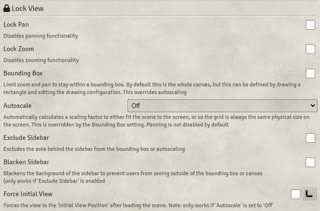
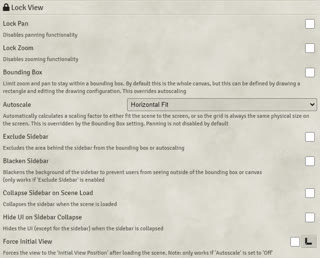
v1.4.4

diff --git a/src/sceneConfig.js b/src/sceneConfig.js
@@ -12,6 +12,8 @@ export function renderSceneConfig(app,html){
     let boundingBox = false;
     let excludeSidebar = false;
     let blackenSidebar = false;
+    let hideUI = false;
+    let collapseSidebar = false;
 
     if(app.object.data.flags["LockView"]){
         if (app.object.data.flags["LockView"].lockPanInit){
@@ -43,6 +45,14 @@ export function renderSceneConfig(app,html){
         if (app.object.data.flags["LockView"].blackenSidebar){
             blackenSidebar = app.object.getFlag('LockView', 'blackenSidebar');
         } else app.object.setFlag('LockView', 'blackenSidebar', false);
+
+        if (app.object.data.flags["LockView"].hideUI){
+            hideUI = app.object.getFlag('LockView', 'hideUI');
+        } else app.object.setFlag('LockView', 'hideUI', false);
+
+        if (app.object.data.flags["LockView"].collapseSidebar){
+            collapseSidebar = app.object.getFlag('LockView', 'collapseSidebar');
+        } else app.object.setFlag('LockView', 'collapseSidebar', false);
     } 
     
     let autoScaleOptions = [
@@ -104,6 +114,16 @@ export function renderSceneConfig(app,html){
         <p class="notes">${game.i18n.localize("LockView.Scene.blackenSidebar_Hint")}</p>
     </div>
     <div class="form-group">
+        <label>${game.i18n.localize("LockView.Scene.CollapseSidebar")}</label>
+        <input id="LockView_collapseSidebar" type="checkbox" name="LV_collapseSidebar" data-dtype="Boolean" ${collapseSidebar ? 'checked' : ''}>
+        <p class="notes">${game.i18n.localize("LockView.Scene.CollapseSidebar_Hint")}</p>
+    </div>
+    <div class="form-group">
+        <label>${game.i18n.localize("LockView.Scene.HideUI")}</label>
+        <input id="LockView_hideUI" type="checkbox" name="LV_hideUI" data-dtype="Boolean" ${hideUI ? 'checked' : ''}>
+        <p class="notes">${game.i18n.localize("LockView.Scene.HideUI_Hint")}</p>
+    </div>
+    <div class="form-group">
         <label>${game.i18n.localize("LockView.Scene.ForceInit")}</label>
         <div class="form-fields">
             <input id="LockView_forceInit" type="checkbox" name="LV_forceInit" data-dtype="Boolean" ${forceInit ? 'checked' : ''}>
@@ -112,8 +132,9 @@ export function renderSceneConfig(app,html){
         <p class="notes">${game.i18n.localize("LockView.Scene.ForceInit_Hint")}</p>
     </div>
     `
-    const submitBtn = html.find("button[name = 'submit']");
-    submitBtn.before(fxHtml);
+    
+    const initPositionClass = html.find('div[class="form-group initial-position"]')
+    initPositionClass.after(fxHtml);
 
     const setInitialViewButton = html.find("button[id = 'LockView_setInitialView']");
     setInitialViewButton.on("click",event => {
@@ -134,6 +155,8 @@ export async function closeSceneConfig(app,html){let lockPan = html.find("input[
     let boundingBox = html.find("input[name ='LV_boundingBox']").is(":checked");
     let excludeSidebar = html.find("input[name ='LV_excludeSidebar']").is(":checked");
     let blackenSidebar = html.find("input[name ='LV_blackenSidebar']").is(":checked");
+    let hideUI = html.find("input[name ='LV_hideUI']").is(":checked");
+    let collapseSidebar = html.find("input[name ='LV_collapseSidebar']").is(":checked");
     await app.object.setFlag('LockView', 'lockPan',lockPan);
     await app.object.setFlag('LockView', 'lockPanInit',lockPan);
     await app.object.setFlag('LockView', 'lockZoom',lockZoom);
@@ -144,6 +167,8 @@ export async function closeSceneConfig(app,html){let lockPan = html.find("input[
     await app.object.setFlag('LockView', 'boundingBoxInit', boundingBox);
     await app.object.setFlag('LockView', 'excludeSidebar', excludeSidebar);
     await app.object.setFlag('LockView', 'blackenSidebar', blackenSidebar);
+    await app.object.setFlag('LockView', 'hideUI', hideUI);
+    await app.object.setFlag('LockView', 'collapseSidebar', collapseSidebar);
 
     if (app.entity.data._id == canvas.scene.data._id){
 

diff --git a/lockview.js b/lockview.js
@@ -16,7 +16,8 @@ let windowHeightOld = -1;
 //CONFIG.debug.hooks = true;
 
 Hooks.on('ready', ()=>{ SOCKET.socket(); MISC.updatePopup() });
-Hooks.on('renderSidebarTab',()=>{ onCanvasReady() });
+Hooks.on('canvasReady',()=>{ onCanvasReady() });
+Hooks.on('renderSidebarTab',()=>{ onRenderSidebarTab() });
 Hooks.on("renderSceneConfig", (app, html) => { SCENECONFIG.renderSceneConfig(app,html) });
 Hooks.on("closeSceneConfig", (app, html) => { SCENECONFIG.closeSceneConfig(app,html) });
 Hooks.on("getSceneControlButtons", (controls) => { CBUTTONS.pushControlButtons(controls) });
@@ -27,6 +28,7 @@ Hooks.on("updateDrawing",()=>{ forceConstrain() });
 Hooks.on("sidebarCollapse", () => { BLOCKS.getFlags(); applySettings(BLOCKS.lockPan && BLOCKS.lockZoom); forceConstrain() });
 Hooks.on("closeinitialViewForm", () => { SCENECONFIG.closeInitialViewForm() })
 Hooks.on("setLockView", (data) => { MISC.setLockView(data) })
+Hooks.on("sidebarCollapse", (app,collapse) => { setUI(collapse) });
 
 Hooks.on('canvasPan',(canvas,data)=>{
   if (MISC.getEnable(game.userId)) 
@@ -61,12 +63,32 @@ Hooks.on("renderPlayerList", (playerlist,init,users) => {
   VIEWBOX.getViewboxData();
 });
 
+function setUI(hide) {
+  if (hide && MISC.getEnable(game.userId) && canvas.scene.getFlag('LockView', 'hideUI')) {
+    $('#logo').hide();
+    $('#navigation').hide();
+    $('#controls').hide();
+    $('#players').hide();
+    $('#hotbar').hide();
+  }
+  else {
+    $('#logo').show();
+    $('#navigation').show();
+    $('#controls').show();
+    $('#players').show();
+    $('#hotbar').show();
+  }
+}
+
 /*
  * If the scene controls are rendered, check whether editViewbox should be enabled
  */
 async function onRenderSceneControls(controls){
   //If no canvas is defined, or the user is not a GM, return
   if (canvas == null || game.user.isGM == false) return;
+  
+  if (MISC.getEnable(game.userId) && canvas.scene.getFlag('LockView', 'collapseSidebar')) 
+    ui.sidebar.collapse();
 
   //Get all flags
   await BLOCKS.getFlags();
@@ -162,6 +184,16 @@ async function initializeFlags(){
  * Run when canvas is ready
  */
 async function onCanvasReady(){
+  await BLOCKS.getFlags();
+
+  //Apply the settings
+  await applySettings(true);
+
+  //forceCanvasPan();
+  VIEWBOX.sendViewBox();
+}
+
+async function onRenderSidebarTab(){
   if (game.user.isGM){
 
     //If the user is the GM, request viewbox data from connected players
@@ -194,7 +226,7 @@ async function onCanvasReady(){
   }
 
   //Apply the settings
-  await applySettings(true);
+  if (game.system.id != "pf2e") await applySettings(true);
 
   //forceCanvasPan();
   VIEWBOX.sendViewBox();
@@ -232,7 +264,7 @@ export async function applySettings(force=false) {
       newPosition = OVERRIDES.constrainView_Override(canvas.scene._viewPosition);
 
     //Pan to the new position
-    if (canvas != null) await canvas.pan( newPosition );
+    if (canvas != null && isNaN(newPosition.x)==false) await canvas.pan( newPosition );
   }
 
   //Set sidebar background to black if 'blackenSidebar' and 'excludeSidebar' are on

diff --git a/templates/helpMenu.html b/templates/helpMenu.html
@@ -1,11 +1,6 @@
 <form autocomplete="off" onsubmit="event.preventDefault()">
 
     <div style="width:1200px">
-        <h2>For users coming from a version older than 1.3.1</h2>
-        <b>The 'Enable' and 'Force Enable' settings have been removed, in favor or a 'User Configuration' screen that you will find in the module settings.</b>
-        <br>
-        <br>
-
         <h1>Introduction</h1>
         Lock View is a module that gives the GM control over the zoom and pan capabilities of users, such as locking the zoom or pan, moving the canvas, or setting the view to a specified setting.<br>
         The module was originally made as a companion app for my <a href="https://github.com/CDeenen/MaterialPlane">Material Plane</a> module, and to make play using a digital playmat, 
@@ -94,6 +89,8 @@
         <li><b>Autoscale</b> - Automatically scales the screen</li>
         <li><b>Exclude Sidebar</b> - Exclude the area behind the sidebar from the bounding box or autoscaling. This can be enabled because the sidebar can obscure parts of the map</li>
         <li><b>Blacken Sidebar</b> - Blackens the background of the sidebar to prevent users from seeing outsie of the bounding box or canvas (only works if 'Exclude Sidebar' is enabled)</li>
+        <li><b>Collapse Sidebar on Scene Load</b> - Collapses the sidebar when the scene is loaded, mainly useful in combination with 'Hide UI on Sidebar Collapse'</li>
+        <li><b>Hide UI on Sidebar Collapse</b> - Hides all UI elements (such as the macro hotbar, scene navigation, etc), expect for the sidebar, when the sidebar is collapsed, great for landing pages or splash screens</li>
         <li><b>Force Initial View</b> - Forces the view to the 'Initial View Position' after loading the scene. Only works if 'Autoscale' is set to 'Off'</li>
         <li><b>Configure Initial View Position button</b> - The button is located to the right of the 'Force Initial View' checkbox. Pressing it opens the 'Configure Initial View Position dialog screen (see below)</li>
         </ul>

diff --git a/src/settings.js b/src/settings.js
@@ -56,30 +56,15 @@ export const registerSettings = function() {
     type: Boolean,
   });
 
-  game.settings.register(MODULE.moduleName,'updatePopupV1.3.2', {
-    scope: "world",
-    config: false,
-    default: false,
-    type: Boolean,
-  });
-
+  /*
   game.settings.register(MODULE.moduleName,'updatePopupV1.4.3', {
     scope: "world",
     config: false,
     default: false,
     type: Boolean,
   });
-
-  /*
-  game.settings.register(MODULE.moduleName,'lockOverride', {
-    name: "LockView.Sett.LockOverride",
-    hint: "LockView.Sett.LockOverride_Hint",
-    scope: "world",
-    config: true,
-    default: "Alt + Z",
-    type: window.Azzu.SettingsTypes.KeyBinding,
-  });
   */
+
   game.settings.register(MODULE.moduleName,'editViewbox', {
     name: "Viewbox edit mode",
     hint: "",
@@ -120,7 +105,7 @@ export class enableMenu extends FormApplication {
    */
   getData() {
     const users = game.users._source;
-    const settings = game.settings.get(MODULE.moduleName,'userSettings');
+    //const settings = game.settings.get(MODULE.moduleName,'userSettings');
     let data = [];
 
     for (let i=0; i<users.length; i++){
@@ -156,11 +141,22 @@ export class enableMenu extends FormApplication {
    */
   async _updateObject(event, formData) {
     let settings = [];
-    for (let i=0; i<formData.id.length; i++){
+    const idArray = formData.id;
+    if (Array.isArray(idArray)) {
+      for (let i=0; i<formData.id.length; i++){
+        let settingsNew = {
+          id: formData.id[i],
+          enable: formData.enable[i],
+          viewbox: formData.viewbox[i]
+        }
+        settings.push(settingsNew);
+      }
+    }
+    else {
       let settingsNew = {
-        id: formData.id[i],
-        enable: formData.enable[i],
-        viewbox: formData.viewbox[i]
+        id: formData.id,
+        enable: formData.enable,
+        viewbox: formData.viewbox
       }
       settings.push(settingsNew);
     }

diff --git a/src/misc.js b/src/misc.js
@@ -77,32 +77,7 @@ export function getEnable(userId){
 }
 
 export function updatePopup(){
-  if (game.settings.get("LockView","updatePopupV1.3.2") == false && game.user.isGM) {
-    let d = new Dialog({
-      title: "Lock View update v1.4.0",
-      content: `
-      <h3>Lock View has been updated to version 1.4.0</h3>
-      <p>
-      The 'Enable' and 'Force Enable' module settings have been removed, in favor or a 'User Configuration' screen that you will find in the module settings.<br>
-      <br>
-      <b>The old enable settings no longer work, you need to set them up in the new User Configuration screen in the Module Settings</b><br>
-      <br>
-      <input type="checkbox" name="hide" data-dtype="Boolean">
-      Don't show this screen again
-      </p>`,
-      buttons: {
-      ok: {
-        icon: '<i class="fas fa-check"></i>',
-        label: "OK"
-      }
-      },
-      default: "OK",
-      close: html => {
-        if (html.find("input[name ='hide']").is(":checked")) game.settings.set("LockView","updatePopupV1.3.2",true);
-      }
-    });
-    d.render(true);
-  }
+  /*
   if (game.settings.get("LockView","updatePopupV1.4.3") == false && game.user.isGM) {
     let d = new Dialog({
       title: "Lock View update v1.4.3",
@@ -131,6 +106,7 @@ export function updatePopup(){
     });
     d.render(true);
   }
+  */
 }
 
 /*

diff --git a/src/blocks.js b/src/blocks.js
@@ -57,7 +57,7 @@ export function setBlocks( {pan=null,zoom=null,bBox=null,force=false}={} ){
     }
 
     if (force==false && MISC.getEnable(game.userId) == false) return;
-  
+
     //Store the values in the global variables
     if (pan != null) lockPan = pan;
     if (zoom != null) lockZoom = zoom;

diff --git a/changelog.md b/changelog.md
@@ -1,4 +1,23 @@
 # Changelog
+### v1.4.4 - 12-04-2021
+Fixes:
+<ul>
+<li>Fixed issue where User Configuration would not be saved if no players were configured.</li>
+<li>Fixed issue with Pathfinder 2e, where the zoom and pan lock would only be applied on the first loaded scene</li>
+<li>Fixed "Cannot read property 'filter' of null" error on first load</li>
+</ul>
+
+Additions:
+<ul>
+<li>Added option to scene configuration to collapse the sidebar when a scene is loaded</li>
+<li>Added option to scene configuration to hide the UI when the sidebar is collapsed</li>
+</ul>
+
+Other:
+<ul>
+<li>Removed popups to notify users of previous breaking setting changes, since I'm assuming all users have updated their settings already</li>
+</ul>
+
 ### v1.4.3 - 28-02-2021
 Additions:
 <ul>
